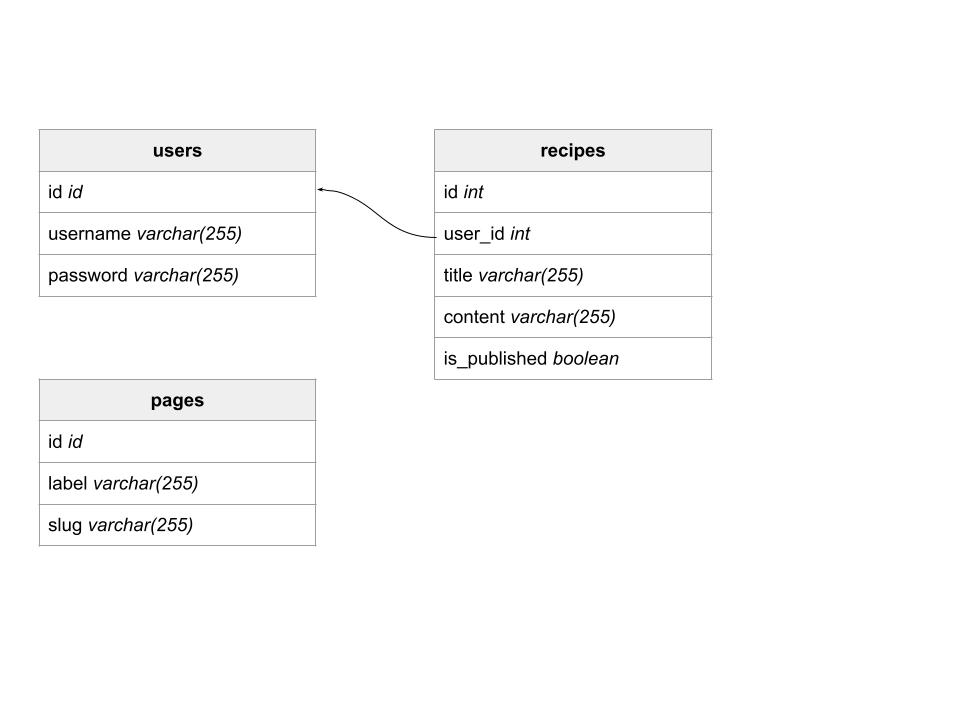
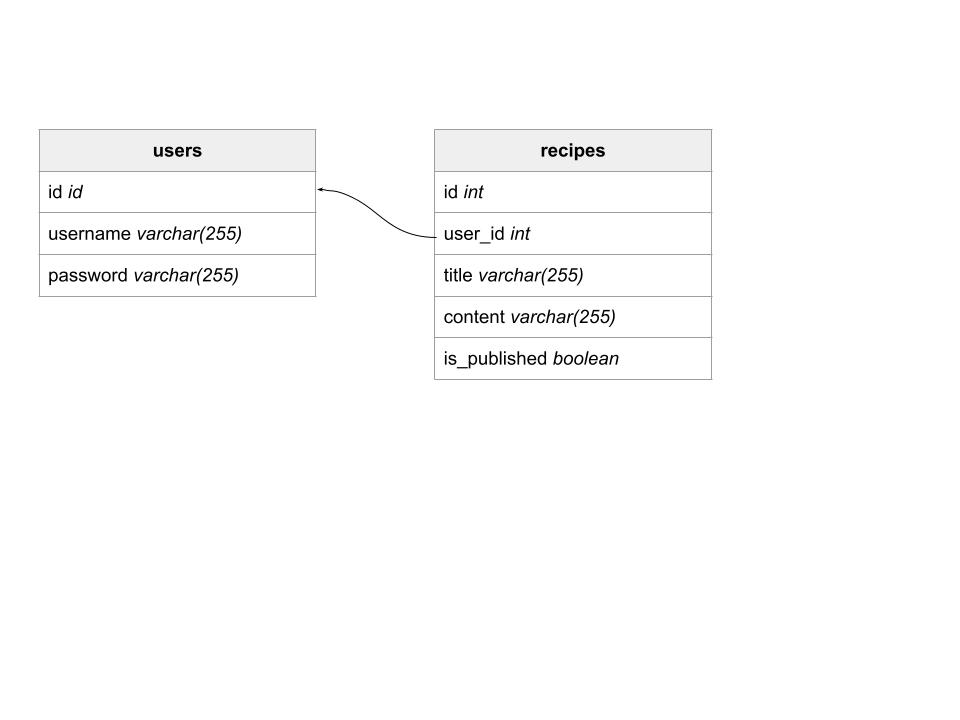
Mise à jour de la doc suite à la suppression de la table PAGES et du routing

Changed region(s): [[0.0312, 0.5806, 0.2188, 0.7639], [0.1562, 0.55, 0.2188, 0.5806]]

diff --git a/docs/CLASS-LIST.md b/docs/CLASS-LIST.md
@@ -2,19 +2,22 @@ Models
 
 - User
 - Recipe
-- Page
+(- Page) géré par le framework
 
 
 Managers
 
 - UserManager
 - RecipeManager
-- PageManager
+(- PageManager) géré par le framework
+
 
 Controller
 
-- AuthenticationController
-- RouteController
-- CreateRecipeController
-- EditRecipeController
-- DisplayRecipesController
+(- AuthenticationController (géré par userController))
+(- RouteController (géré par symphony))
+- UserController
+- RecipeController
+(- PageController) géré par le framework. On remplace par un controller moins générique
+- HomeController
+- +AdminController

diff --git a/docs/FEATURE-LIST.md b/docs/FEATURE-LIST.md
@@ -4,9 +4,7 @@ Features :
     - Connexion
     - Déconnexion
 - Page d'accueil affichant toutes les recettes (publiées uniquement ?) du site et qui redirige vers le détail de la recette une fois cliqué
-- Sauvegarde d'une ou plusieurs recettes pour chaque utilisateur.
 - Création d'une recette.
 - Consultation d'une recette
-- Publication d'une recette.
 - Modification d'une recette.  
 - Suppression d'une recette.

diff --git a/docs/TEMPLATE-LIST.md b/docs/TEMPLATE-LIST.md
@@ -1,6 +1,10 @@
 TEMPLATES:
-- layout.phtml
-- accueil.phtml
-- consulterRecette.phtml
-- creerRecette.phtml
-- editerRecette.phtml
+- layout 
+- home 
+- consulterRecette 
+- creerRecette 
+- editerRecette 
+- login 
+- register 
+- admin
+- 404
